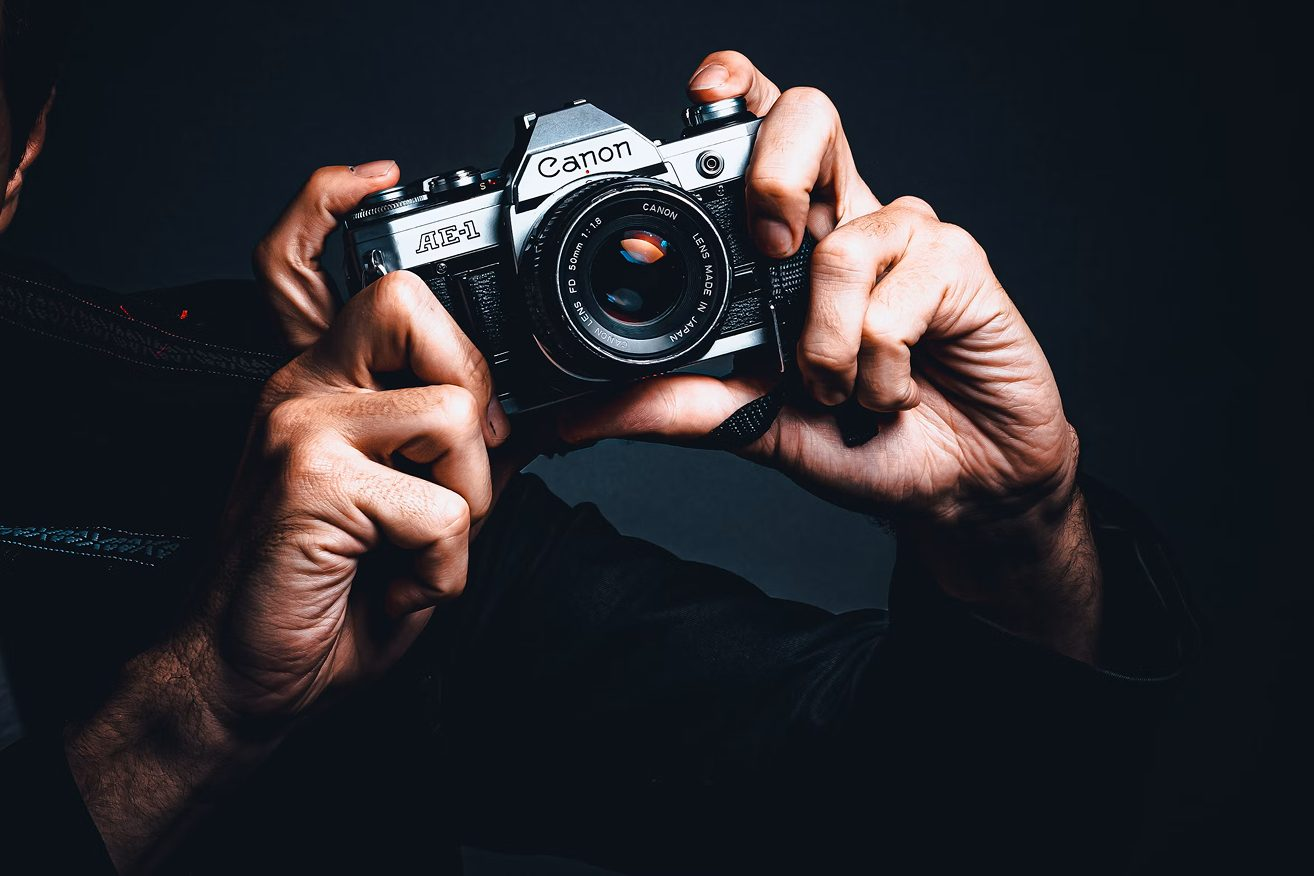
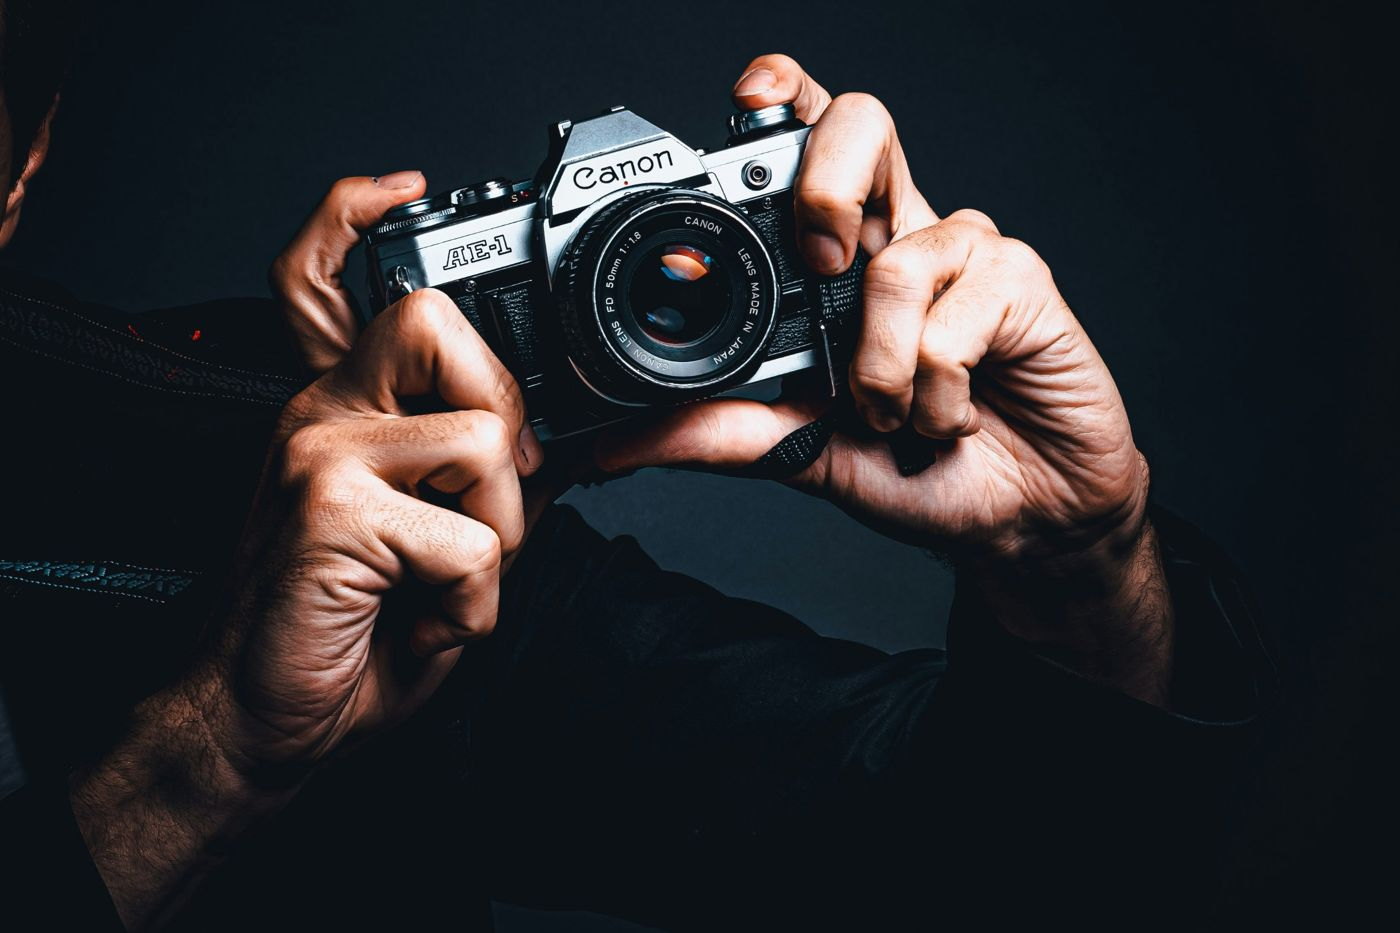
Startsidan: skarp hero-bild (2400 px på dator, 1400 px på mobil)
Claude-Session: https://claude.ai/code/session_01SJMY8ZX4c2XYz8gvwaiiSp

Changed region(s): [[0.3432, 0.1233, 0.624, 0.4315], [0.2808, 0.2158, 0.3744, 0.339]]

diff --git a/src/components/Start.css b/src/components/Start.css
@@ -62,7 +62,7 @@
 
 @media (min-width: 960px) {
   .start-hero {
-    background: var(--obsidian) url('/bilder/kamera.jpg') 62% center / cover no-repeat;
+    background: var(--obsidian) url('/bilder/kamera-2400.jpg') 62% 22% / cover no-repeat;
     /* Bilden går kant i kant. Innehållet följer samma 1200 px-spalt som sektionerna under,
        så att rubriken, korten och "Workshoppar" börjar och slutar på samma linjer. */
     min-height: min(calc(100svh - 64px), 720px);
